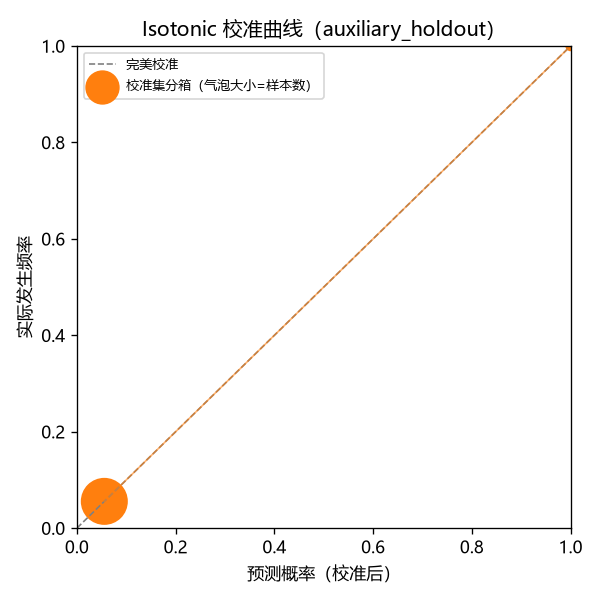
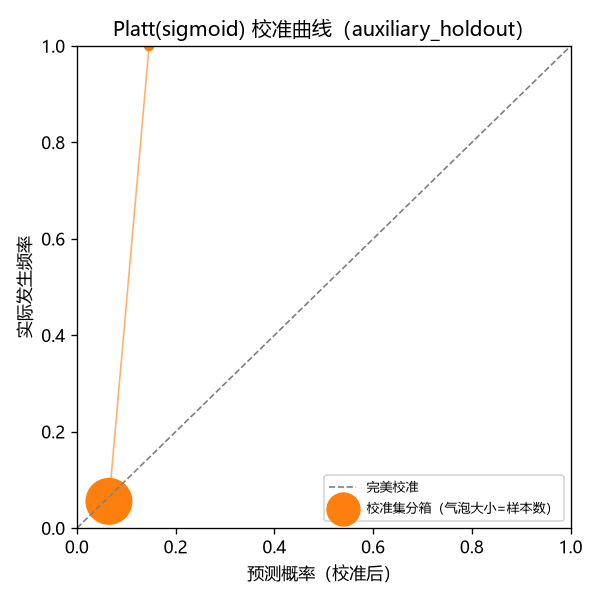
Fix potential-score quantization: switch calibration from isotonic to Platt/sigmoid
Isotonic regression on the ~91-row auxiliary_holdout calibration set (only
~6 positives) collapsed to 4 output plateaus, so ~92% of the 2083 channels'
potential scores landed on just 3 values -- visible as dense vertical stripes
on the matrix page's P-vs-R scatter plot. A 1-D logistic regression (Platt
scaling) needs far fewer calibration points to stay smooth; same conformal
interval logic, same Brier/coverage reporting, now 492 distinct values with
none repeating more than 20 times.

diff --git a/web/src/pages/BacktestPage.tsx b/web/src/pages/BacktestPage.tsx
@@ -140,7 +140,7 @@ export default function BacktestPage() {
           {potential_model.calibration && (
             <div>
               <h3 className="text-xs font-medium text-gray-400 mb-2">
-                Isotonic 校准曲线（校准集：未参与训练的独立频道，n={potential_model.calibration.n_calibration_rows}） · Conformal
+                Platt(sigmoid) 校准曲线（校准集：未参与训练的独立频道，n={potential_model.calibration.n_calibration_rows}） · Conformal
                 目标覆盖率 {(potential_model.calibration.target_coverage * 100).toFixed(0)}% · 实际覆盖率{" "}
                 {potential_model.calibration.actual_coverage !== null
                   ? `${(potential_model.calibration.actual_coverage * 100).toFixed(1)}%`

diff --git a/pipeline/score.py b/pipeline/score.py
@@ -10,7 +10,7 @@ from the original single-classifier design and why:
 - A random 15% of channels ("auxiliary_holdout", stratified by subscriber
   tier) never enters training or the eval snapshot. It carries three jobs
   that all boil down to "needs data that hasn't been used for training or
-  scoring": (a) leak-free season coefficient estimation, (b) isotonic
+  scoring": (a) leak-free season coefficient estimation, (b) Platt/sigmoid
   calibration of the regression head, (c) conformal residual quantiles.
   Splitting these into three separate holdouts would fragment an already
   small channel pool for no added rigor — all three only require
@@ -49,7 +49,7 @@ import lightgbm as lgb
 import numpy as np
 import yaml
 from sklearn.ensemble import HistGradientBoostingClassifier
-from sklearn.isotonic import IsotonicRegression
+from sklearn.linear_model import LogisticRegression
 from sklearn.model_selection import GroupKFold, KFold, train_test_split
 from sklearn.metrics import accuracy_score, brier_score_loss
 
@@ -527,12 +527,25 @@ def train_dual_head_oof(training_rows: list[dict], eval_rows: list[dict],
 
 def calibrate_and_conformalize(reg_model: lgb.LGBMRegressor, aux_holdout: list[dict], fetched_at: datetime,
                                 season_coefs: dict, label_fn, conformal_alpha: float = CONFORMAL_ALPHA) -> dict:
-    """§4.2 isotonic calibration + §5 conformal interval, both fit on
+    """§4.2 probability calibration + §5 conformal interval, both fit on
     auxiliary_holdout's own eval-snapshot rows (T=60d) — data the production
-    regressor never trained on. Returns the fitted isotonic model plus the
-    conformal residual quantile, and reports actual coverage on this same
-    holdout (the honest self-check the spec asks for: it SHOULD be close to
-    the nominal 1-alpha, not exactly, since this is a finite calibration set)."""
+    regressor never trained on.
+
+    Uses Platt/sigmoid scaling (1-D logistic regression on the raw regressor
+    score), not isotonic regression. Isotonic was the original design (see
+    REFACTOR_PLAN.md §4.2) but with only ~90 calibration rows and ~6 positives
+    it collapsed to 4 output plateaus (0%/3.2%/9.1%/100%) — confirmed by
+    inspecting IsotonicRegression's y_thresholds_ directly. Applied to 2000+
+    channels that meant ~92% of them landed on just 3 of those 4 values,
+    showing up as dense vertical stripes on the P-vs-R scatter plot. Platt
+    scaling fits a smooth 2-parameter sigmoid instead of a step function, so
+    it doesn't need nearly as many calibration points to stay continuous —
+    the standard reason isotonic is usually reserved for larger calibration
+    sets. Reports the same Brier/coverage diagnostics either way.
+
+    Returns the fitted calibrator plus the conformal residual quantile, and
+    actual coverage on this same holdout (should sit close to the nominal
+    1-alpha, not exactly, since this is a finite calibration set)."""
     aux_eval_rows = build_eval_rows(aux_holdout, fetched_at, season_coefs)
     labeled = [(r, label_continuous(r)) for r in aux_eval_rows]
     labeled = [(r, y) for r, y in labeled if y is not None]
@@ -544,9 +557,9 @@ def calibrate_and_conformalize(reg_model: lgb.LGBMRegressor, aux_holdout: list[d
     y_true_binary = np.array([label_fn(r) for r, _ in labeled], dtype=int)
     raw_pred = reg_model.predict(X)
 
-    isotonic = IsotonicRegression(out_of_bounds="clip", y_min=0.0, y_max=1.0)
-    isotonic.fit(raw_pred, y_true_binary)
-    calibrated_prob = isotonic.predict(raw_pred)
+    calibrator = LogisticRegression()
+    calibrator.fit(raw_pred.reshape(-1, 1), y_true_binary)
+    calibrated_prob = calibrator.predict_proba(raw_pred.reshape(-1, 1))[:, 1]
 
     brier = brier_score_loss(y_true_binary, calibrated_prob)
     calibration_curve = _calibration_bins(calibrated_prob, y_true_binary, n_bins=10)
@@ -563,7 +576,7 @@ def calibrate_and_conformalize(reg_model: lgb.LGBMRegressor, aux_holdout: list[d
         len(labeled), brier, conformal_quantile, 1 - conformal_alpha, actual_coverage,
     )
     return {
-        "isotonic": isotonic,
+        "calibrator": calibrator,
         "conformal_quantile": conformal_quantile,
         "brier_score": brier,
         "calibration_curve": calibration_curve,
@@ -571,6 +584,10 @@ def calibrate_and_conformalize(reg_model: lgb.LGBMRegressor, aux_holdout: list[d
         "actual_coverage": actual_coverage,
         "n_calibration_rows": len(labeled),
     }
+
+
+def _predict_calibrated(calibrator: LogisticRegression, raw_values: np.ndarray) -> np.ndarray:
+    return calibrator.predict_proba(raw_values.reshape(-1, 1))[:, 1]
 
 
 def topk_hit_rate(rows_with_score: list[tuple[dict, float]], label_fn, k: int) -> tuple[float, int]:
@@ -747,7 +764,7 @@ def run() -> dict:
         final_regressor = train_regressor(training_rows)
         calib = calibrate_and_conformalize(final_regressor, aux_holdout, fetched_at, season_coefs, label_fn)
         potential_meta["calibration"] = {
-            k: v for k, v in calib.items() if k != "isotonic"  # isotonic model itself isn't JSON-serializable
+            k: v for k, v in calib.items() if k != "calibrator"  # sklearn model itself isn't JSON-serializable
         }
 
         for ch in channels:
@@ -755,9 +772,9 @@ def run() -> dict:
             feats_arr = np.array([feats])
             rank_score = float(final_ranker.predict(feats_arr)[0])
             raw_reg = float(final_regressor.predict(feats_arr)[0])
-            p = float(calib["isotonic"].predict(np.array([raw_reg]))[0])
-            p_lo = float(calib["isotonic"].predict(np.array([raw_reg - calib["conformal_quantile"]]))[0])
-            p_hi = float(calib["isotonic"].predict(np.array([raw_reg + calib["conformal_quantile"]]))[0])
+            p = float(_predict_calibrated(calib["calibrator"], np.array([raw_reg]))[0])
+            p_lo = float(_predict_calibrated(calib["calibrator"], np.array([raw_reg - calib["conformal_quantile"]]))[0])
+            p_hi = float(_predict_calibrated(calib["calibrator"], np.array([raw_reg + calib["conformal_quantile"]]))[0])
             potential_scores[ch["channel_id"]] = {
                 "value": p * 100,               # calibrated acceleration probability, 0-100 (kept as `value` for
                                                   # backward compatibility with the field the frontend already reads)

diff --git a/pipeline/validate.py b/pipeline/validate.py
@@ -303,7 +303,7 @@ def plot_calibration_curve(calibration_curve: list[dict], out_path: Path) -> Non
     ax.set_xlim(0, 1)
     ax.set_ylim(0, 1)
     ax.legend(fontsize=8)
-    ax.set_title("Isotonic 校准曲线（auxiliary_holdout）")
+    ax.set_title("Platt(sigmoid) 校准曲线（auxiliary_holdout）")
     fig.tight_layout()
     fig.savefig(out_path, dpi=120)
     plt.close(fig)
@@ -399,7 +399,10 @@ def write_backtest_markdown(scores: dict, season_leak: dict, groupkfold: dict, l
         "- **GroupKFold而非普通KFold**：同一频道的5个滑动T窗口高度相关（都基于同一份历史视频），"
         "普通KFold会让同一频道的不同窗口分散在训练/验证两侧，CV分数虚高且不报错。",
         "- **排序头与概率头分工**：Top-K榜单用LGBMRanker(lambdarank)的排序分，因为业务只关心榜单头部相对顺序；"
-        "\"引爆概率\"数值用LGBMRegressor回归log(post/pre)后isotonic校准，因为概率数值需要良定义的[0,1]区间且要有校准保证。",
+        "\"引爆概率\"数值用LGBMRegressor回归log(post/pre)后做Platt(sigmoid)校准，因为概率数值需要良定义的[0,1]区间"
+        "且要有校准保证——原计划用isotonic regression，但校准集只有约90行、正样本个位数，isotonic拟合出的阶梯函数"
+        "只有4级平台，套到2000+频道上会让92%的频道挤在3个数值上（散点图上就是密集竖线），"
+        "改用参数更少的Platt scaling后输出连续、不再阶梯化。",
         "- **Conformal区间**：概率头给出的p_lo/p_hi来自auxiliary_holdout残差分位数，"
         "\"高分但区间宽\"和\"高分且区间窄\"是两种不同的决策置信度，前端应区别对待。",
         "",

diff --git a/reports/backtest.md b/reports/backtest.md
@@ -48,7 +48,7 @@ GroupKFold 平均 balanced_accuracy = 0.5450（各折：[0.571, 0.541, 0.53, 0.5
 
 ## 5. 校准与置信区间
 
-Brier score = 0.0506（校准集 n=91）  
+Brier score = 0.0598（校准集 n=91）  
 Conformal 目标覆盖率 = 0.90，实际覆盖率 = 0.9011
 
 ## 6. 口径说明（逐条）
@@ -59,7 +59,7 @@ Conformal 目标覆盖率 = 0.90，实际覆盖率 = 0.9011
 - **分层优于全局**：真实campaign一次签8-10人，Top-20分档命中率比全局Top-20更贴近决策场景；分层也剥夺了基线"靠体量躺赢"的优势。
 - **季节系数用独立子集估计**：全量估计会把T之后的视频信息带回T之前的特征，是真实的未来泄漏；只用auxiliary_holdout（从不参与训练/评估的15%频道）估计则彻底切断这条泄漏路径。
 - **GroupKFold而非普通KFold**：同一频道的5个滑动T窗口高度相关（都基于同一份历史视频），普通KFold会让同一频道的不同窗口分散在训练/验证两侧，CV分数虚高且不报错。
-- **排序头与概率头分工**：Top-K榜单用LGBMRanker(lambdarank)的排序分，因为业务只关心榜单头部相对顺序；"引爆概率"数值用LGBMRegressor回归log(post/pre)后isotonic校准，因为概率数值需要良定义的[0,1]区间且要有校准保证。
+- **排序头与概率头分工**：Top-K榜单用LGBMRanker(lambdarank)的排序分，因为业务只关心榜单头部相对顺序；"引爆概率"数值用LGBMRegressor回归log(post/pre)后做Platt(sigmoid)校准，因为概率数值需要良定义的[0,1]区间且要有校准保证——原计划用isotonic regression，但校准集只有约90行、正样本个位数，isotonic拟合出的阶梯函数只有4级平台，套到2000+频道上会让92%的频道挤在3个数值上（散点图上就是密集竖线），改用参数更少的Platt scaling后输出连续、不再阶梯化。
 - **Conformal区间**：概率头给出的p_lo/p_hi来自auxiliary_holdout残差分位数，"高分但区间宽"和"高分且区间窄"是两种不同的决策置信度，前端应区别对待。
 
 ## 7. §6 序列编码器 ablation：跳过，及原因